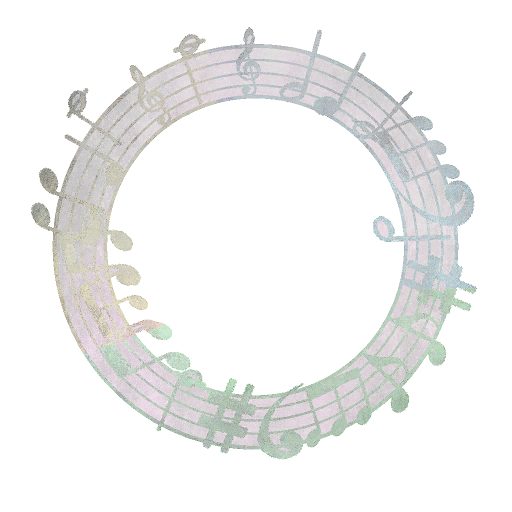
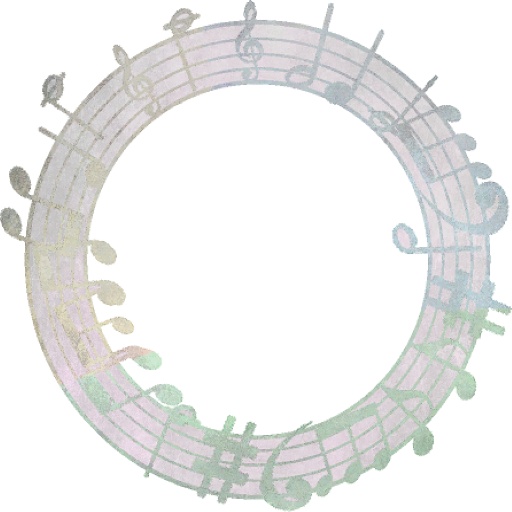
add cool spinning music notes

diff --git a/src/main/java/ruina/monsters/act1/Orchestra.java b/src/main/java/ruina/monsters/act1/Orchestra.java
@@ -3,6 +3,7 @@ package ruina.monsters.act1;
 import actlikeit.dungeons.CustomDungeon;
 import basemod.helpers.VfxBuilder;
 import com.badlogic.gdx.graphics.Texture;
+import com.megacrit.cardcrawl.actions.AbstractGameAction;
 import com.megacrit.cardcrawl.actions.animations.VFXAction;
 import com.megacrit.cardcrawl.actions.common.HealAction;
 import com.megacrit.cardcrawl.actions.common.RollMoveAction;
@@ -30,7 +31,9 @@ import ruina.cards.performance.ThirdChair;
 import ruina.monsters.AbstractRuinaMonster;
 import ruina.powers.AbstractLambdaPower;
 import ruina.powers.FerventAdoration;
+import ruina.util.TexLoader;
 import ruina.vfx.OrchestraCurtainEffect;
+import ruina.vfx.OrchestraMusicEffect;
 
 import java.util.ArrayList;
 import java.util.function.BiFunction;
@@ -63,6 +66,23 @@ public class Orchestra extends AbstractRuinaMonster
     private final int HEAL = calcAscensionTankiness(20);
 
     private final ArrayList<AbstractCard> performerCards = new ArrayList<>();
+
+    public static final String MOVEMENT1 = RuinaMod.makeMonsterPath("Orchestra/1st.png");
+    private final Texture MOVEMENT1_TEXTURE = TexLoader.getTexture(MOVEMENT1);
+
+    public static final String MOVEMENT2 = RuinaMod.makeMonsterPath("Orchestra/2nd.png");
+    private final Texture MOVEMENT2_TEXTURE = TexLoader.getTexture(MOVEMENT2);
+
+    public static final String MOVEMENT3 = RuinaMod.makeMonsterPath("Orchestra/3rd.png");
+    private final Texture MOVEMENT3_TEXTURE = TexLoader.getTexture(MOVEMENT3);
+
+    public static final String MOVEMENT4 = RuinaMod.makeMonsterPath("Orchestra/4th.png");
+    private final Texture MOVEMENT4_TEXTURE = TexLoader.getTexture(MOVEMENT4);
+
+    private OrchestraMusicEffect movement1;
+    private OrchestraMusicEffect movement2;
+    private OrchestraMusicEffect movement3;
+    private OrchestraMusicEffect movement4;
 
     public static final String POWER_ID = makeID("Performance");
     public static final PowerStrings powerStrings = CardCrawlGame.languagePack.getPowerStrings(POWER_ID);
@@ -147,36 +167,78 @@ public class Orchestra extends AbstractRuinaMonster
         switch (this.nextMove) {
             case FIRST: {
                 attackAnimation1(adp());
+                atb(new AbstractGameAction() {
+                    @Override
+                    public void update() {
+                        movement1 = new OrchestraMusicEffect(hb.cX + (10.0f * Settings.scale), hb.cY, MOVEMENT1_TEXTURE, false, 0.75f);
+                        AbstractDungeon.effectsQueue.add(movement1);
+                        this.isDone = true;
+                    }
+                });
                 dmg(adp(), info);
                 applyToTarget(adp(), this, new WeakPower(adp(), WEAK, true));
-                resetIdle();
+                resetIdle(1.0f);
                 break;
             }
             case SECOND: {
                 attackAnimation2(adp());
+                atb(new AbstractGameAction() {
+                    @Override
+                    public void update() {
+                        movement2 = new OrchestraMusicEffect(hb.cX + (10.0f * Settings.scale), hb.cY, MOVEMENT2_TEXTURE, true, 1.25f);
+                        AbstractDungeon.effectsQueue.add(movement2);
+                        this.isDone = true;
+                    }
+                });
                 dmg(adp(), info);
                 applyToTarget(adp(), this, new FerventAdoration(adp(), FERVENT_DAMAGE, FERVENT_DRAW));
-                resetIdle();
+                resetIdle(1.0f);
                 break;
             }
             case THIRD: {
                 attackAnimation1(adp());
+                atb(new AbstractGameAction() {
+                    @Override
+                    public void update() {
+                        movement3 = new OrchestraMusicEffect(hb.cX + (10.0f * Settings.scale), hb.cY, MOVEMENT3_TEXTURE, false, 1.75f);
+                        AbstractDungeon.effectsQueue.add(movement3);
+                        this.isDone = true;
+                    }
+                });
                 dmg(adp(), info);
                 applyToTarget(adp(), this, new DrawCardNextTurnPower(adp(), PLAYER_DRAW));
-                resetIdle();
+                resetIdle(1.0f);
                 break;
             }
             case FOURTH: {
                 attackAnimation2(adp());
+                atb(new AbstractGameAction() {
+                    @Override
+                    public void update() {
+                        movement4 = new OrchestraMusicEffect(hb.cX + (10.0f * Settings.scale), hb.cY, MOVEMENT4_TEXTURE, true, 2.25f);
+                        AbstractDungeon.effectsQueue.add(movement4);
+                        this.isDone = true;
+                    }
+                });
                 intoDiscardMo(new VoidCard(), STATUS, this);
-                resetIdle();
+                resetIdle(1.0f);
                 break;
             }
             case FINALE: {
                 finaleAnimation(adp());
+                atb(new AbstractGameAction() {
+                    @Override
+                    public void update() {
+                        movement1.end();
+                        movement2.end();
+                        movement3.end();
+                        movement4.end();
+                        this.isDone = true;
+                    }
+                });
                 dmg(adp(), info);
                 applyToTarget(adp(), this, new FerventAdoration(adp(), FERVENT_DAMAGE, FERVENT_DRAW));
-                resetIdle();
+                resetIdle(1.5f);
                 break;
             }
             case CURTAIN: {

diff --git a/src/main/java/ruina/vfx/OrchestraMusicEffect.java b/src/main/java/ruina/vfx/OrchestraMusicEffect.java
@@ -1,0 +1,71 @@
+package ruina.vfx;
+
+import com.badlogic.gdx.Gdx;
+import com.badlogic.gdx.graphics.Color;
+import com.badlogic.gdx.graphics.Texture;
+import com.badlogic.gdx.graphics.g2d.SpriteBatch;
+import com.badlogic.gdx.graphics.g2d.TextureRegion;
+import com.badlogic.gdx.math.Interpolation;
+import com.megacrit.cardcrawl.core.Settings;
+import com.megacrit.cardcrawl.vfx.AbstractGameEffect;
+
+public class OrchestraMusicEffect extends AbstractGameEffect {
+    private final float x;
+    private final float y;
+    private final TextureRegion musicTexture;
+    private final boolean clockwise;
+    private final float targetScale;
+    private float graphicsAnimation;
+    private boolean ending = false;
+    private final float endingScale = 10.0f;
+
+    public OrchestraMusicEffect(float hbx, float hby, Texture musicTexture, boolean clockwise, float targetScale) {
+        this.color = Color.WHITE.cpy();
+        this.color.a = 0.8F;
+        this.renderBehind = true;
+        this.scale = 0.0f;
+        this.targetScale = targetScale;
+        this.x = hbx;
+        this.y = hby;
+        this.musicTexture = new TextureRegion(musicTexture);
+        this.clockwise = clockwise;
+    }
+
+    public void update() {
+        this.graphicsAnimation += Gdx.graphics.getDeltaTime();
+        if (ending) {
+            if (scale < endingScale) {
+                scale = Interpolation.linear.apply(targetScale, endingScale, graphicsAnimation * 1.5F);
+            }
+            if (scale > endingScale) {
+                scale = endingScale;
+                isDone = true;
+            }
+        } else {
+            if (scale < targetScale) {
+                scale = Interpolation.linear.apply(0.0f, targetScale, graphicsAnimation * 1.0F);
+            }
+            if (scale > targetScale) {
+                scale = targetScale;
+            }
+        }
+
+        if (clockwise) {
+            this.rotation += Gdx.graphics.getDeltaTime() * 30.0F;
+        } else {
+            this.rotation -= Gdx.graphics.getDeltaTime() * 30.0F;
+        }
+    }
+
+    public void end() {
+        graphicsAnimation = 0.0f;
+        ending = true;
+    }
+
+    public void render(SpriteBatch sb) {
+        sb.setColor(this.color);
+        sb.draw(musicTexture, this.x - (float)musicTexture.getRegionWidth() / 2, this.y - (float)musicTexture.getRegionHeight() / 2, (float)musicTexture.getRegionWidth() / 2, (float)musicTexture.getRegionHeight() / 2, musicTexture.getRegionWidth(), musicTexture.getRegionHeight(), Settings.scale * scale, Settings.scale * scale, rotation);
+    }
+
+    public void dispose() { }
+}
